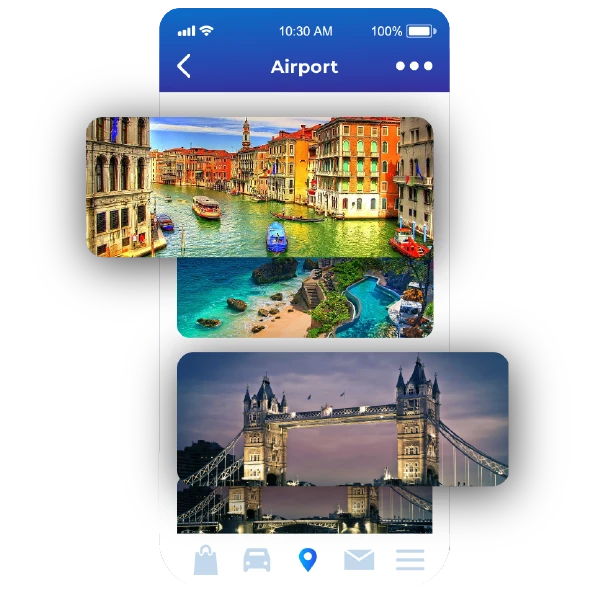
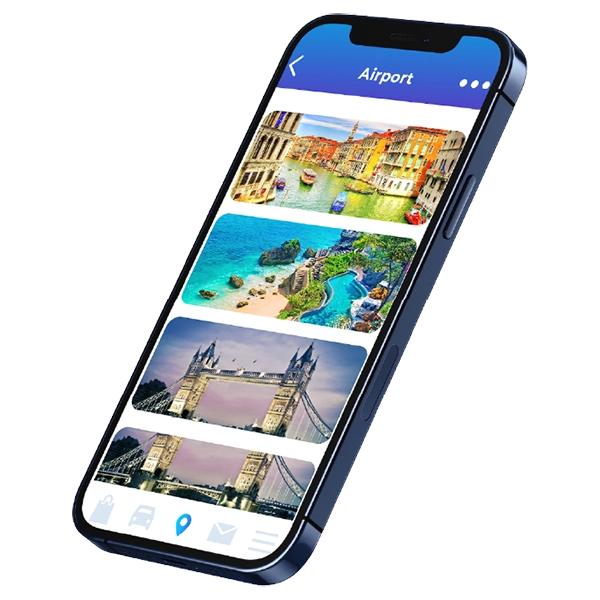
Solutions and Case Study images updated

diff --git a/resources/views/travelagencyapp.blade.php b/resources/views/travelagencyapp.blade.php
@@ -296,17 +296,8 @@
 	<div class="visuals-travel-background pt50">
 		<div class="container">
 			<div class="row mt-4 mt-lg-0">
-				<div class="col-12 col-md-6 col-lg-3 wow fadeIn" data-wow-delay="0.4s">
-					<img src="{{asset('images/case-studies/travel-agency-app/travel-app-visuals-1.webp')}}" alt="Travel App Visuals" class="img-fluid travel-app-visuals-1">
-				</div>
-				<div class="col-12 col-md-6 col-lg-3 wow fadeIn" data-wow-delay="0.6s">
-					<img src="{{asset('images/case-studies/travel-agency-app/travel-app-visuals-2.webp')}}" alt="Travel App Visuals" class="img-fluid travel-app-visuals-2">
-				</div>
-				<div class="col-12 col-md-6 col-lg-3 wow fadeIn" data-wow-delay="0.8s">
-					<img src="{{asset('images/case-studies/travel-agency-app/travel-app-visuals-3.webp')}}" alt="Travel App Visuals" class="img-fluid travel-app-visuals-3">
-				</div>
-				<div class="col-12 col-md-6 col-lg-3 wow fadeIn" data-wow-delay="1.0s">
-					<img src="{{asset('images/case-studies/travel-agency-app/travel-app-visuals-4.webp')}}" alt="Travel App Visuals" class="img-fluid travel-app-visuals-4">
+				<div class="col-12 wow fadeIn" data-wow-delay="0.4s">
+					<img src="{{asset('images/case-studies/travel-agency-app/travel-app-visuals.webp')}}" alt="Travel App Visuals" class="img-fluid travel-app-visuals mx-auto d-block">
 				</div>
 			</div>
 		</div>
